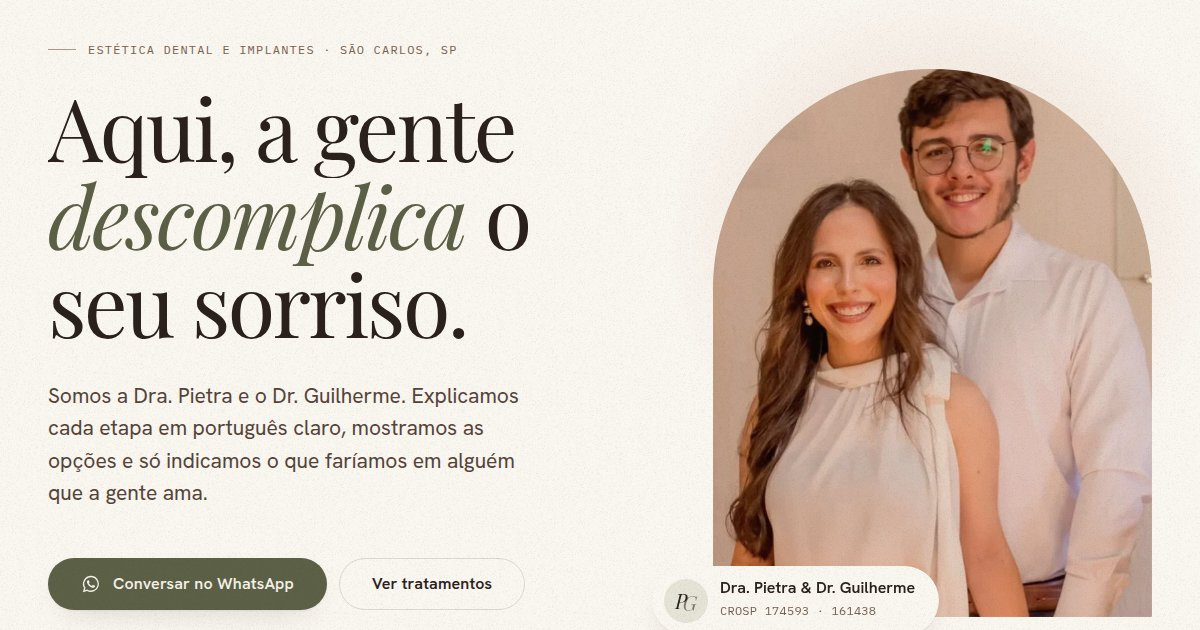
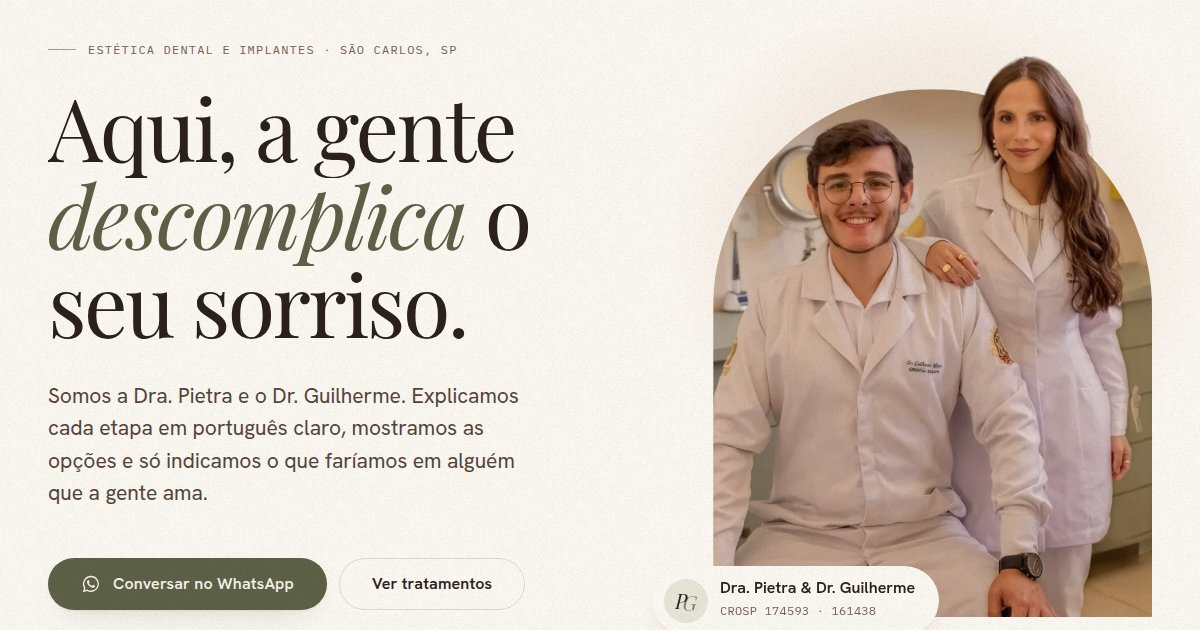
Pop-out hero, garden photo, backstage grid and smooth scroll
Hero rebuilds the Figma Frame 1: photo inside the arch plus a
background-free cutout on top so heads break out of the frame,
positioned from Figma geometry. Garden photo in Nós with the PM/GM
monogram removed, backstage 3x3 grid with rounded corners in the
steps section, Lenis smooth scroll for mouse users only.

Claude-Session: https://claude.ai/code/session_01XB2DEg8kH1uu9EH6JetoYZ

Changed region(s): [[0.5858, 0.0905, 0.9867, 0.9952]]

diff --git a/sites/pietra-guilherme/styles/app.css b/sites/pietra-guilherme/styles/app.css
@@ -29,7 +29,14 @@
 
 .hero__visual { position: relative; max-width: 460px; justify-self: end; width: 100%; }
 .hero__visual { padding-bottom: 28px; }
-.hero__visual .arch img { object-position: 50% 18%; animation: settle 1800ms var(--ease-out) both; }
+/* foto dentro do arco, recorte por cima: as cabeças vazam da moldura (composição do Figma) */
+.hero__visual { padding-top: 7%; }
+.pop { position: relative; aspect-ratio: 2619 / 3150; }
+.pop .arch { position: absolute; inset: 0; aspect-ratio: auto; }
+.hero__visual .pop .arch img { transform: none; animation: none; }
+.pop__cut { position: absolute; left: 1.527%; top: -7.079%; width: 95.38%; height: auto; max-width: none; pointer-events: none; animation: popin 800ms var(--ease-out) 900ms both; }
+@keyframes popin { from { opacity: 0; } to { opacity: 1; } }
+.hero__visual .arch img { object-position: 50% 0%; animation: settle 1800ms var(--ease-out) both; }
 @keyframes settle { from { transform: scale(1.06); } to { transform: none; } }
 .hero__card {
   position: absolute; left: -14%; bottom: 10px; display: flex; align-items: center; gap: var(--space-3);
@@ -68,8 +75,8 @@
 }
 .us__quote em { color: var(--color-accent); }
 .us__photo { margin: 0; }
-.us__frame { aspect-ratio: 862 / 975; overflow: hidden; border-radius: var(--radius-pill) var(--radius-pill) var(--radius-sm) var(--radius-sm); background: var(--color-surface-deep); }
-.us__frame img { width: 100%; height: 100%; object-fit: cover; object-position: 50% 100%; }
+.us__frame { aspect-ratio: 1200 / 1345; overflow: hidden; border-radius: var(--radius-pill) var(--radius-pill) var(--radius-sm) var(--radius-sm); background: var(--color-surface-deep); }
+.us__frame img { width: 100%; height: 100%; object-fit: cover; object-position: 50% 30%; }
 .us__names { display: flex; justify-content: space-between; gap: var(--space-4); margin-top: var(--space-4); font-family: var(--font-mono); font-size: var(--text-xs); letter-spacing: .06em; text-transform: uppercase; color: var(--color-text-muted); }
 .us__names span:last-child { text-align: right; }
 .us__names b { display: block; font-weight: 400; color: var(--color-text); }
@@ -222,6 +229,7 @@
 .steps__media { position: sticky; top: 104px; margin: 0; }
 .steps__frame { aspect-ratio: 4 / 5; overflow: hidden; border-radius: var(--radius-pill) var(--radius-pill) var(--radius-sm) var(--radius-sm); background: var(--color-surface-deep); }
 .steps__frame img { width: 100%; height: 100%; object-fit: cover; object-position: 50% 40%; }
+.steps__frame--grid { aspect-ratio: 1100 / 1378; border-radius: var(--radius-lg); }
 .steps__cap { margin-top: var(--space-4); font-family: var(--font-mono); font-size: var(--text-xs); letter-spacing: .06em; text-transform: uppercase; color: var(--color-text-muted); }
 .tl { position: relative; margin-top: var(--space-8); padding-left: 40px; --fill: 0; }
 .tl::before, .tl::after { content: ""; position: absolute; left: 7px; top: 10px; bottom: 10px; width: 1px; }

diff --git a/sites/pietra-guilherme/index.html b/sites/pietra-guilherme/index.html
@@ -71,8 +71,9 @@
         </div>
 
         <figure class="hero__visual reveal">
-          <div class="arch img-reveal">
-            <img src="assets/casal.webp" alt="Dra. Pietra e Dr. Guilherme, lado a lado, sorrindo" width="678" height="1020" fetchpriority="high">
+          <div class="pop">
+            <div class="arch img-reveal"><img src="assets/hero-fundo.webp" alt="Dr. Guilherme sentado e Dra. Pietra em pé ao lado, de jaleco, no consultório" width="1100" height="1322" fetchpriority="high"></div>
+            <img class="pop__cut" src="assets/hero-recorte.webp" alt="" aria-hidden="true" width="1049" height="1388" fetchpriority="high">
           </div>
           <div class="hero__card">
             <span class="hero__card-mono" aria-hidden="true"><i>P</i><i>G</i></span>
@@ -116,10 +117,10 @@
         </div>
 
         <figure class="us__photo">
-          <div class="us__frame img-reveal"><img src="assets/jaleco.webp" alt="Dr. Guilherme sentado e Dra. Pietra em pé ao lado, de jaleco, no consultório" loading="lazy" width="862" height="975"></div>
+          <div class="us__frame img-reveal"><img src="assets/jardim.webp" alt="Dra. Pietra e Dr. Guilherme abraçados em frente a um jardim" loading="lazy" width="1200" height="1345"></div>
           <figcaption class="us__names">
-            <span><b>Dr.&nbsp;Guilherme Mattos</b>CROSP 161438</span>
             <span><b>Dra.&nbsp;Pietra Michelin</b>CROSP 174593</span>
+            <span><b>Dr.&nbsp;Guilherme Mattos</b>CROSP 161438</span>
           </figcaption>
         </figure>
       </div>
@@ -308,8 +309,8 @@
     <section class="steps section">
       <div class="wrap steps__grid">
         <figure class="steps__media">
-          <div class="steps__frame img-reveal"><img src="assets/espelho.webp" alt="Espelho sobre a bancada do consultório, com a Dra. Pietra refletida" loading="lazy" width="1036" height="844"></div>
-          <figcaption class="steps__cap">O nosso consultório, em São&nbsp;Carlos</figcaption>
+          <div class="steps__frame steps__frame--grid img-reveal"><img src="assets/bastidores.webp" alt="Nove fotos dos bastidores do consultório: procedimentos, os dois dentistas juntos e momentos com a equipe" loading="lazy" width="1100" height="1378"></div>
+          <figcaption class="steps__cap">Bastidores do nosso consultório, em São&nbsp;Carlos</figcaption>
         </figure>
         <div class="steps__body">
           <p class="kicker reveal"><span class="kicker__n">06/07</span>Como funciona</p>
@@ -439,6 +440,7 @@
     <symbol id="i-arrow" viewBox="0 0 24 24"><path fill="none" stroke="currentColor" stroke-width="1.6" stroke-linecap="round" stroke-linejoin="round" d="M7 17 17 7M9 7h8v8"/></symbol>
   </svg>
 
+  <script src="https://cdn.jsdelivr.net/npm/lenis@1.1.20/dist/lenis.min.js" defer></script>
   <script src="js/app.js" defer></script>
 </body>
 </html>

diff --git a/sites/pietra-guilherme/js/app.js b/sites/pietra-guilherme/js/app.js
@@ -43,6 +43,23 @@
 
   /* ---------- quebra de texto para animação ---------- */
   const reduce = window.matchMedia("(prefers-reduced-motion: reduce)").matches;
+
+  /* ---------- smooth scroll: só com mouse, nunca no toque nem com reduced-motion ---------- */
+  if (!reduce && window.Lenis && window.matchMedia("(pointer: fine)").matches) {
+    const lenis = new window.Lenis({ lerp: 0.1, wheelMultiplier: 1, smoothWheel: true });
+    const loop = (t) => { lenis.raf(t); requestAnimationFrame(loop); };
+    requestAnimationFrame(loop);
+    document.querySelectorAll('a[href^="#"]').forEach((a) => {
+      const id = a.getAttribute("href");
+      if (id.length < 2) return;
+      a.addEventListener("click", (e) => {
+        const target = document.querySelector(id);
+        if (!target) return;
+        e.preventDefault();
+        lenis.scrollTo(target, { offset: -88, duration: 1.4 });
+      });
+    });
+  }
   const splitWords = (el, cls = "w") => {
     let i = 0;
     const walk = (node) => {

diff --git a/sites/pietra-guilherme/styles/base.css b/sites/pietra-guilherme/styles/base.css
@@ -1,6 +1,10 @@
 /* reset + base */
 *, *::before, *::after { box-sizing: border-box; }
 html { -webkit-text-size-adjust: 100%; scroll-behavior: smooth; scroll-padding-top: 88px; }
+/* smooth scroll (Lenis) assume a rolagem quando ativo */
+html.lenis, html.lenis body { height: auto; }
+.lenis.lenis-smooth { scroll-behavior: auto !important; }
+.lenis.lenis-stopped { overflow: hidden; }
 body {
   margin: 0;
   background: var(--color-bg);

diff --git a/sites/pietra-guilherme/DESIGN.md b/sites/pietra-guilherme/DESIGN.md
@@ -79,16 +79,20 @@ Azul clínico. Depoimento inventado. Número de vaidade sem fonte. Vídeo de pro
 - Revelação de foto recorta a imagem, nunca a moldura: moldura recortada não dispara o IntersectionObserver.
 - Tudo desliga com prefers-reduced-motion. JavaScript puro, sem biblioteca.
 
-## Fotos reais (Instagram, via Figma)
+## Fotos reais (via Figma, página "DR GUILHERME E PIETRA")
 
 | Arquivo | Onde | Tratamento |
 |---|---|---|
-| casal.webp | hero | texto do post e seta do carrossel removidos por inpaint |
-| jaleco.webp | Nós | texto do topo e nomes do rodapé removidos, pontos do carrossel cortados |
+| hero-fundo.webp + hero-recorte.webp | hero | composição do Frame 1: foto dentro do arco e recorte sem fundo por cima, as cabeças vazam da moldura. Posições tiradas do Figma (left 1.527%, top -7.079%, width 95.38%); encaixe medido com diferença média de 0.68/255 |
+| jardim.webp | Nós | monograma PM/GM removido por inpaint em duas passadas |
 | cirurgia.webp | tratamento Implantes | recorte da metade de cima, azul clínico dessaturado e aquecido |
-| espelho.webp | Como funciona | recorte da metade de cima |
+| bastidores.webp | Como funciona | grade 3x3 de bastidores, cantos arredondados sem arco; seta e pontos do carrossel removidos |
 
-São capturas de tela: resolução baixa (até 1116px). Pedir os arquivos originais antes de publicar de verdade.
+Resto de rótulo "...RME" removido da foto de fundo e do recorte. A grade é montagem de prints: pedir originais para uma versão final.
+
+## Smooth scroll
+
+Lenis 1.1.20 via jsDelivr, lerp 0.1, só com ponteiro fino (mouse). Desligado no toque e com prefers-reduced-motion. Links de âncora usam lenis.scrollTo com offset de -88px (altura da nav).
 
 ## Créditos de imagem (Unsplash, licença livre)
 
